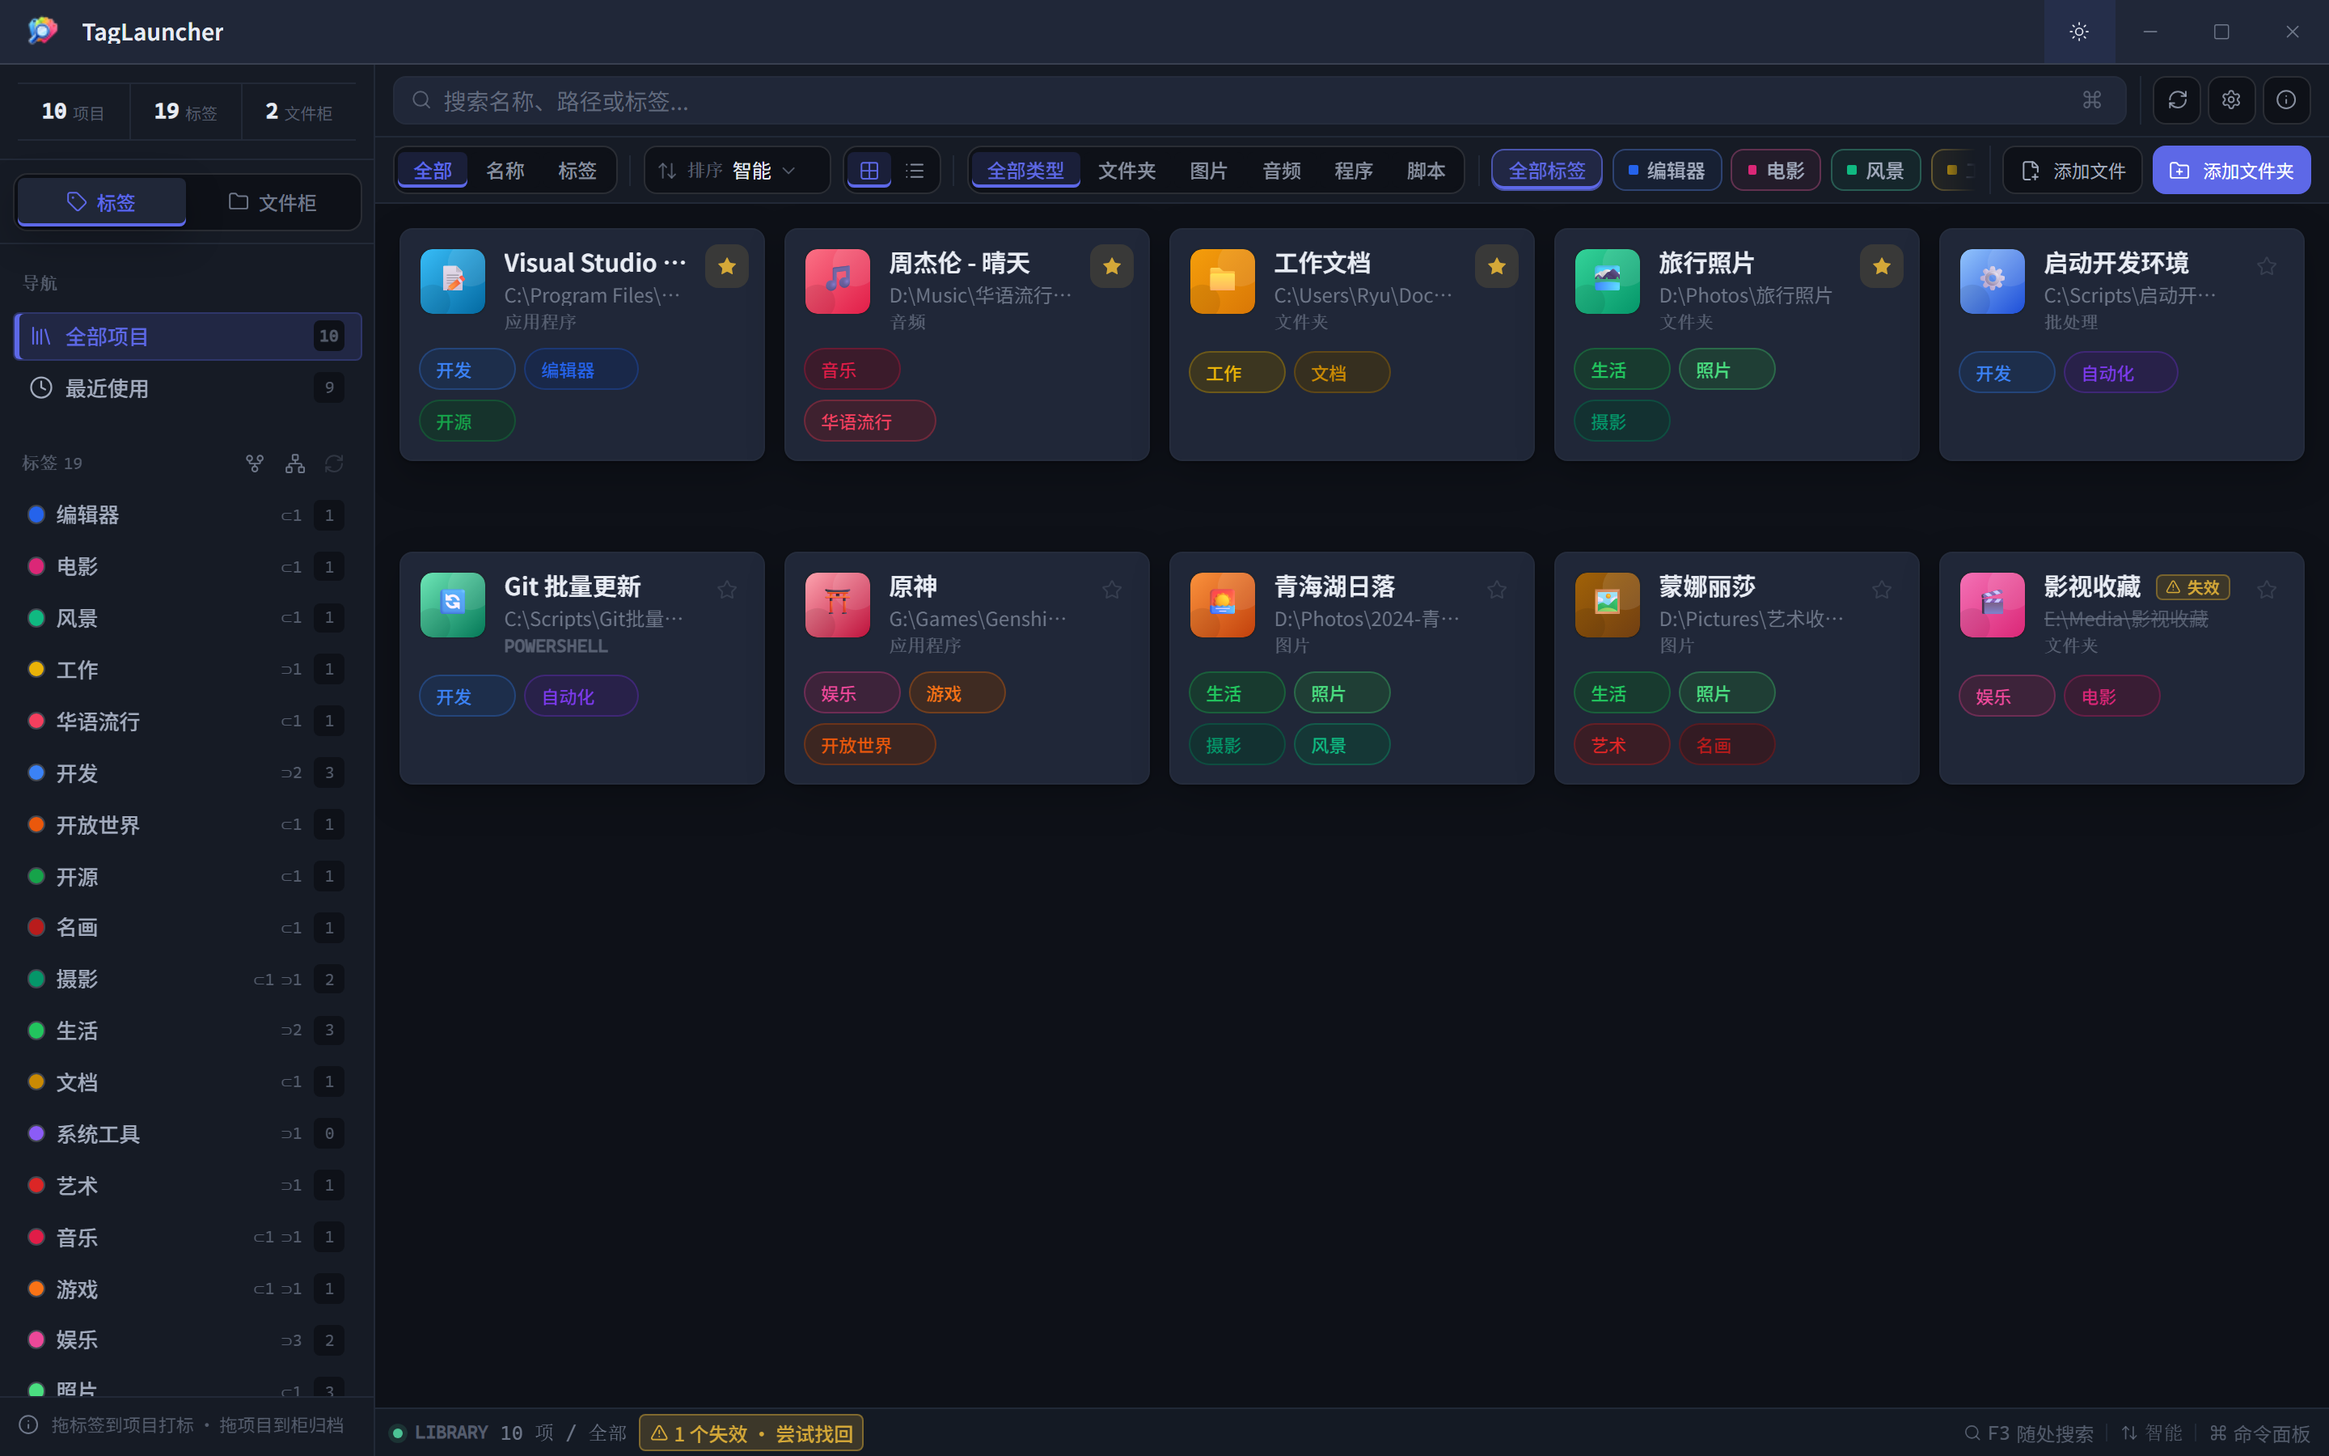
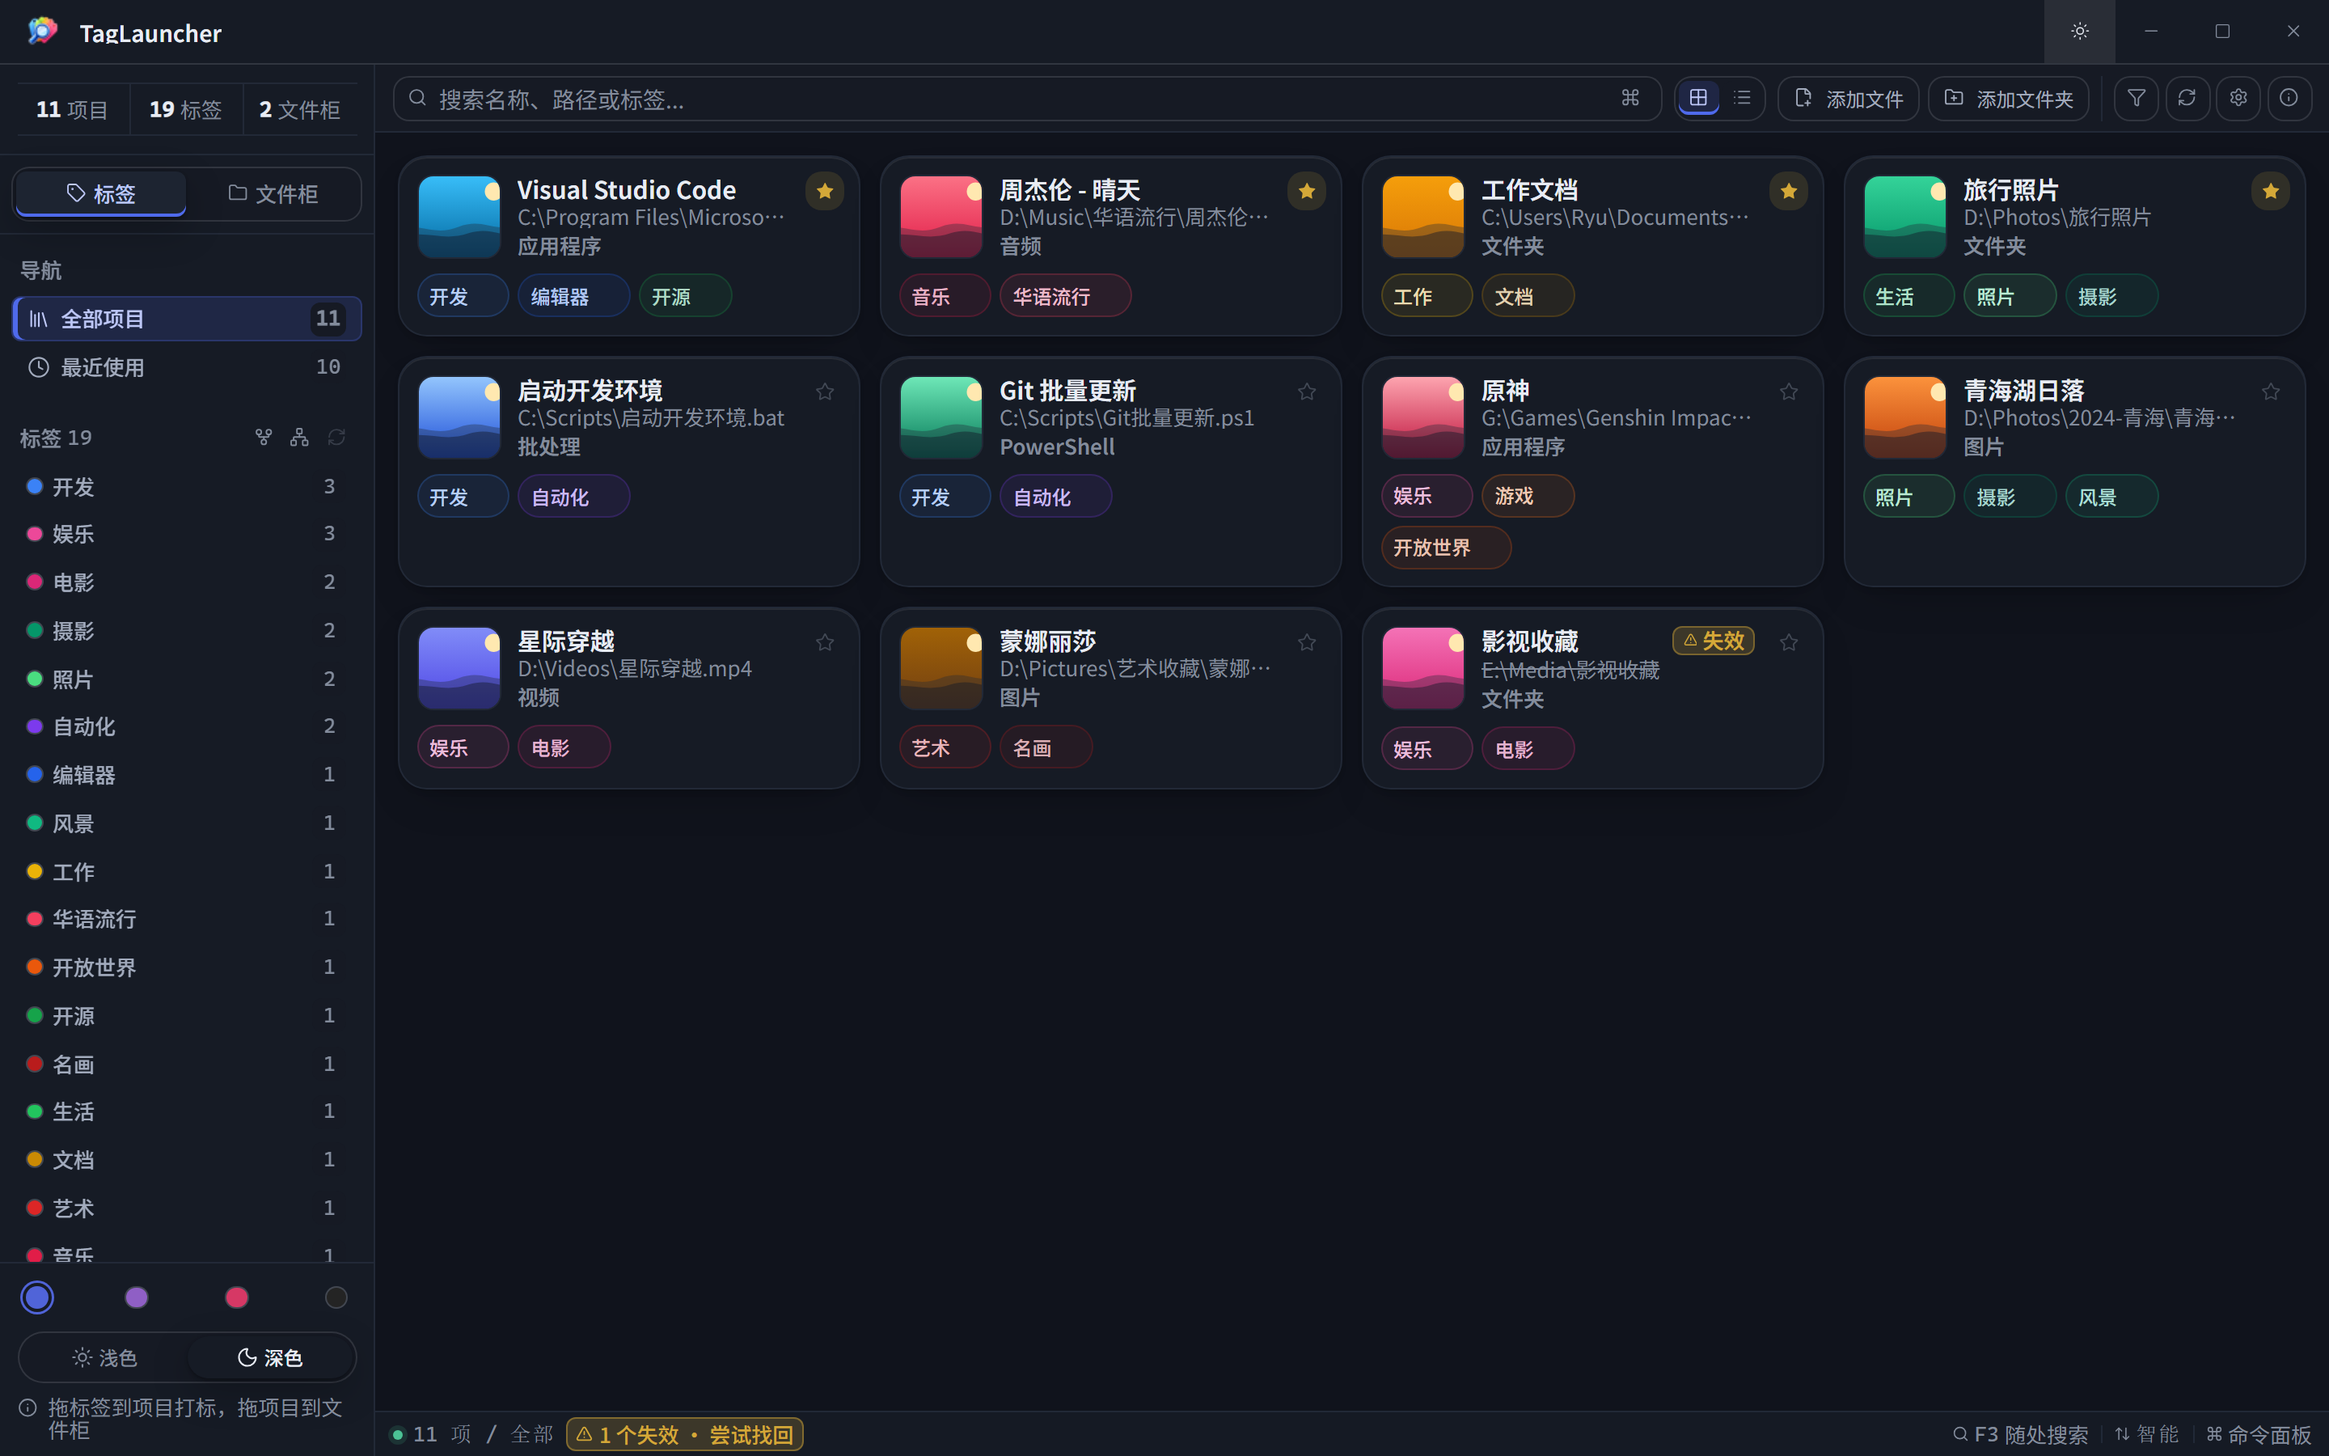
chore(release): v1.8.0

diff --git a/src/demo/data.ts b/src/demo/data.ts
@@ -1,8 +1,8 @@
 // ============================================================================
 // demo/data.ts — 演示数据集（仅 demo 模式使用，不进正式构建功能路径）
 // ============================================================================
-// 10 个模拟对象，覆盖全部形态：
-//   - 6 种对象类型：folder ×3 / image ×2 / audio / exe ×2 / bat / ps1；
+// 11 个模拟对象，覆盖全部形态：
+//   - 7 种对象类型：folder ×3 / image ×2 / audio / video / exe ×2 / bat / ps1；
 //   - 状态形态：收藏、失效（移动硬盘未连接）、多标签、从未启动（无 last_used_at）；
 //   - 标签构成 DAG（多父继承），含零对象的结构标签（系统工具），用于演示
 //     标签图谱与「选中父标签并入后代对象」。
@@ -53,7 +53,7 @@ export const DEMO_TAG_RELATIONS: TagRelation[] = [
   { parentId: 7, childId: 30 }, // 游戏 ⊃ 开放世界
 ];
 
-// ---- 对象（10 个，6 类型全覆盖） ----
+// ---- 对象（11 个，7 类型全覆盖） ----
 
 export interface DemoItemSeed extends Item {
   /** 标签 id 列表（对应 DEMO_TAGS） */
@@ -79,6 +79,9 @@ export const DEMO_ITEMS: DemoItemSeed[] = [
   // ---- audio ----
   { id: 6, name: "周杰伦 - 晴天", path: "D:\\Music\\华语流行\\周杰伦 - 晴天.mp3", type: "audio", icon_path: thumb(6), created_at: "2025-01-20T13:00:00Z", last_used_at: "2026-08-25T22:18:00Z", is_favorite: true, tagIds: [8, 26] },
 
+  // ---- video ----
+  { id: 11, name: "星际穿越", path: "D:\\Videos\\星际穿越.mp4", type: "video", icon_path: thumb(11), created_at: "2025-06-08T20:30:00Z", last_used_at: "2026-08-22T21:10:00Z", is_favorite: false, tagIds: [2, 9] },
+
   // ---- exe ----
   { id: 7, name: "Visual Studio Code", path: "C:\\Program Files\\Microsoft VS Code\\Code.exe", type: "exe", icon_path: thumb(7), created_at: "2025-01-05T08:00:00Z", last_used_at: "2026-08-26T01:30:00Z", is_favorite: true, tagIds: [1, 10, 11] },
   { id: 8, name: "原神", path: "G:\\Games\\Genshin Impact\\YuanShen.exe", type: "exe", icon_path: thumb(8), created_at: "2025-02-28T14:20:00Z", last_used_at: "2026-08-24T23:37:00Z", is_favorite: false, tagIds: [2, 7, 30] },
@@ -100,7 +103,7 @@ export const DEMO_CABINETS: Cabinet[] = [
 /** 文件柜成员：cabinetId → itemIds */
 export const DEMO_CABINET_ITEMS: Record<number, number[]> = {
   1: [7, 1, 10],
-  2: [8, 6],
+  2: [8, 6, 11],
 };
 
 // ---- 文件夹预览目录列表（虚构条目） ----

diff --git a/src/demo/assets.ts b/src/demo/assets.ts
@@ -24,6 +24,8 @@ const PATH_VISUALS: Record<string, DemoVisual> = {
   "D:/Photos/2024-青海/青海湖日落.jpg": { emoji: "🌅", from: "#fb923c", to: "#c2410c" },
   // audio（专辑封面与卡片缩略图同视觉）
   "D:/Music/华语流行/周杰伦 - 晴天.mp3": { emoji: "🎵", from: "#fb7185", to: "#e11d48" },
+  // video（首帧占位，与卡片缩略图同视觉）
+  "D:/Videos/星际穿越.mp4": { emoji: "🎥", from: "#818cf8", to: "#4f46e5" },
 };
 
 /** 缩略图缓存路径 item-<id>.png → 视觉（与 data.ts 中的对象一一对应） */
@@ -36,6 +38,7 @@ const THUMB_VISUALS: Record<number, DemoVisual> = {
   8: { emoji: "⛩", from: "#fda4af", to: "#be123c" },
   9: { emoji: "⚙", from: "#93c5fd", to: "#1d4ed8" },
   10: { emoji: "🔄", from: "#6ee7b7", to: "#047857" },
+  11: { emoji: "🎥", from: "#818cf8", to: "#4f46e5" },
 };
 
 const FALLBACK_PALETTE: Array<[string, string]> = [
@@ -76,7 +79,10 @@ function lookupVisual(path: string): DemoVisual {
 
 function buildSvg(visual: DemoVisual, path: string): string {
   const id = `g${hashPath(visual.from + visual.to).toString(36)}`;
-  if (/\.(jpe?g|png|webp|gif|bmp)$/i.test(path)) {
+  if (/\.(jpe?g|png|webp|gif|bmp|mp4|m4v|mkv|avi|mov|wmv|flv|webm)$/i.test(path)) {
+    const playMark = /\.(mp4|m4v|mkv|avi|mov|wmv|flv|webm)$/i.test(path)
+      ? `<circle cx="480" cy="320" r="64" fill="#111827" opacity="0.55"/><polygon points="468,288 468,352 524,320" fill="#ffffff"/>`
+      : "";
     return `<svg xmlns="http://www.w3.org/2000/svg" width="960" height="640" viewBox="0 0 960 640">`
       + `<defs><linearGradient id="${id}" x1="0" y1="0" x2="0" y2="1">`
       + `<stop offset="0" stop-color="${visual.from}"/><stop offset="1" stop-color="${visual.to}"/>`
@@ -85,6 +91,7 @@ function buildSvg(visual: DemoVisual, path: string): string {
       + `<circle cx="760" cy="120" r="72" fill="#ffe8b0"/>`
       + `<path d="M0 420 C180 360 280 480 480 400 C680 320 780 460 960 380 L960 640 L0 640 Z" fill="#1f2937" opacity="0.35"/>`
       + `<path d="M0 480 C220 420 360 520 560 450 C740 390 860 500 960 460 L960 640 L0 640 Z" fill="#111827" opacity="0.45"/>`
+      + playMark
       + `</svg>`;
   }
   return `<svg xmlns="http://www.w3.org/2000/svg" width="512" height="512" viewBox="0 0 512 512">`

diff --git a/版本对比.md b/版本对比.md
@@ -1,33 +1,33 @@
-# TagLauncher 版本对比:1.0.0 → 1.7.13-beta
+# TagLauncher 版本对比:1.0.0 → 1.8.0
 
 > 只对比首个正式版与当前版本,直观说明迭代变化。各功能详情见[开发手册](./PROJECT_MANUAL.md)。
 
 ## 一句话总结
 
-1.0.0 是一个「标签 + 文件柜」的本地启动器;1.7.13-beta 已进化为**可装 Mod、可换主题、带 AI 打标、云同步与在线更新的商业级文件工作台**。1.0.0 的核心概念(标签、文件柜、收藏、启动)全部保留并增强,老用户无需重新学习。
+1.0.0 是一个「标签 + 文件柜」的本地启动器;1.8.0 已进化为**可装 Mod、可换主题、带 AI 打标、云同步与在线更新的商业级文件工作台**。1.0.0 的核心概念(标签、文件柜、收藏、启动)全部保留并增强,老用户无需重新学习。
 
 ## 体量对照
 
-| 维度 | 1.0.0 | 1.7.13-beta |
+| 维度 | 1.0.0 | 1.8.0 |
 |---|---|---|
 | 源码文件数(src + src-tauri/src) | 30 | ≈176(约 5.9 倍) |
-| 后端命令数 | 23 | 93(约 4 倍) |
+| 后端命令数 | 23 | 95(约 4 倍) |
 | 自动化测试 | 0 | 300+(前端逻辑 + vitest + Rust 单元/集成) |
 | 文档 | 1 个 README | 手册体系(使用/开发/教程/维护/测试计划) |
 | CI / 发版流水线 | 无 | push/PR 自动测试;tag 触发 x64 + ARM64 双架构发版 |
 
 ## 能力对照
 
-| 方面 | 1.0.0 | 1.7.13-beta |
+| 方面 | 1.0.0 | 1.8.0 |
 |---|---|---|
 | **找文件** | 按路径记录,文件移动/改名即丢失 | NTFS 文件 ID 作身份,同盘改名/移动自动追踪;跨盘移动按内容指纹自动找回;支持 NAS/网络盘 |
 | **标签** | 平铺标签,交集筛选 | 图状标签(DAG,多父继承),选中父标签自动并入后代;关系编辑器 + 可视化标签图谱 |
-| **扩展性** | 功能固定 | Mod 体系(CSS / CSS+JS / Theme,17 种权限管控、网络请求原语、列表插槽)+ 主题体系(20 套 RyuujiDesign 锁定色板内置主题、A/B 双造型风格切换、tokens/变体/自定义 CSS),附官方示例 |
+| **扩展性** | 功能固定 | Mod 体系(CSS / CSS+JS / Theme,17 种权限管控、网络请求原语、列表插槽)+ 主题体系(4 大配色家族霜靛/藤色/樱花/素墨 × 亮暗、RyuujiDesign 锁定色板、tokens/变体/自定义 CSS),附官方示例 |
 | **AI** | 无 | 接入 Anthropic 协议(兼容第三方地址),一键/自动为对象智能打标;密钥只存本机、导出自动剔除 |
 | **数据** | 固定在程序旁,无备份手段 | 自定义数据目录;一键备份/导出/导入;WebDAV 云备份与恢复(自动保留最近 10 份,云端副本脱敏) |
 | **更新** | 无 | 启动自动检查 GitHub 新版本(24h 节流),按架构直达安装包下载 |
 | **搜索** | 名称/路径/标签/拼音/同义词,150ms 防抖 | 保留全部能力 + 英文轻度容错、英文缩写、表达式语法、索引缓存提速、命中关键词高亮、「搜索待生效」指示、层级标签并入结果 |
-| **交互** | 网格/列表 + 基础搜索 + 收藏置顶 | 大列表虚拟化、鼠标框选、命令面板(Ctrl+K)、空格快速预览、五种排序、类型筛选、批量操作、状态栏、骨架屏、主题化窗口栏、完整键盘体系 |
+| **交互** | 网格/列表 + 基础搜索 + 收藏置顶 | 大列表虚拟化、鼠标框选、命令面板(Ctrl+K)、空格快速预览(图片/音频/视频)、五种排序、类型筛选、批量操作、状态栏、骨架屏、主题化窗口栏、完整键盘体系 |
 | **工程质量** | 无测试、无 CI | 全量自动化测试 + CI 护栏 + 契约测试(命令双向一致、版本三处一致) |
 
 ## 结论

diff --git a/PROJECT_MANUAL.md b/PROJECT_MANUAL.md
@@ -1,6 +1,6 @@
 # TagLauncher 项目手册
 
-> 适用版本：v1.7.13-beta · 面向开发者 · 最终用户请见 [USER_GUIDE.md](./USER_GUIDE.md)
+> 适用版本：v1.8.0 · 面向开发者 · 最终用户请见 [USER_GUIDE.md](./USER_GUIDE.md)
 
 ## 一、项目简介
 
@@ -745,8 +745,8 @@ Mod JS 入口内调用 `createScope(__MOD_ID__)` 获取专属作用域（`__MOD_
 
 - `vite --mode demo` 时 `vite.config.ts` 用 `resolve.alias` 把 5 个 Tauri 模块（`api/core`、`api/window`、`api/webview`、`plugin-dialog`、`plugin-shell`）替换为 `src/demo/tauri/` 下的浏览器内替身，前端代码零改动。
 - `src/demo/backend.ts` 是内存演示后端，覆盖 `lib/db.ts` 全部命令：数据读写、标签 DAG（含成环检测）、文件柜、设置、AI 打标建议、云同步、更新检查、Mod 管理等，并带模拟 IPC 延迟让加载态可见。页面刷新后数据重置。
-- `src/demo/data.ts` 是演示数据集：6 种对象类型（folder/image/audio/exe/bat/ps1）各 4 个，模拟知名软件/游戏/音乐/图片（如 VS Code、原神、周杰伦专辑），全部挂匹配标签；标签构成 DAG（如 娱乐⊃音乐⊃华语流行）；含 3 个文件柜与 1 个失效对象（演示找回流程）。
-- `src/demo/assets.ts` 把虚构路径确定性地生成为内联 SVG data URL（缩略图/专辑封面）；音频路径喂给 `<audio>` 的是生成的静音 WAV，保证播放器正常加载。仓库不含任何第三方版权素材。
+- `src/demo/data.ts` 是演示数据集：11 个对象覆盖 7 种类型（folder/image/audio/video/exe/bat/ps1），模拟知名软件/游戏/音乐/影片/图片（如 VS Code、原神、周杰伦专辑、星际穿越），全部挂匹配标签；标签构成 DAG（如 娱乐⊃音乐⊃华语流行）；含 2 个文件柜与 1 个失效对象（演示找回流程）。
+- `src/demo/assets.ts` 把虚构路径确定性地生成为内联 SVG data URL（缩略图/专辑封面/视频首帧占位）；音频路径喂给 `<audio>` 的是生成的静音 WAV，保证播放器正常加载。仓库不含任何第三方版权素材。
 
 ### 16.2 用法
 

diff --git a/USER_GUIDE.md b/USER_GUIDE.md
@@ -1,6 +1,6 @@
 # TagLauncher 使用手册
 
-> 适用版本：v1.7.13-beta · 面向最终用户 · 开发者请见 [PROJECT_MANUAL.md](./PROJECT_MANUAL.md) 与 [TUTORIAL.md](./TUTORIAL.md)
+> 适用版本：v1.8.0 · 面向最终用户 · 开发者请见 [PROJECT_MANUAL.md](./PROJECT_MANUAL.md) 与 [TUTORIAL.md](./TUTORIAL.md)
 
 TagLauncher 用「标签 + 文件柜 + 收藏 + 搜索」管理你的本地文件、文件夹、程序、脚本、图片和音频——不移动、不复制、不改动你的任何文件，只做轻量的索引与启动。
 

diff --git a/测试计划.md b/测试计划.md
@@ -1,6 +1,6 @@
 # TagLauncher 全功能测试计划
 
-> 更新日期：2026-09-14。应用版本：1.7.13-beta；数据库 schema：12。
+> 更新日期：2026-09-16。应用版本：1.8.0；数据库 schema：13。
 > 复验基线：`d396f396998e6b8072b798e1456e583d97f7150b`。范围：该提交相对父提交的 120 个文件及其集成路径。
 > 状态：计划已更新，当前基线的完整复验待执行。已有记录见第 17 节；本次工作只更新计划。
 

diff --git a/THEME_GUIDE.md b/THEME_GUIDE.md
@@ -1,6 +1,6 @@
 # TagLauncher 主题开发指南
 
-> 适用版本：v1.7.13-beta
+> 适用版本：v1.8.0
 > 相关文档：[PROJECT_MANUAL.md](./PROJECT_MANUAL.md)（架构总览）· [MOD_GUIDE.md](./MOD_GUIDE.md)（Mod 开发）
 > 可参照的完整示例：仓库根目录 `ExampleTheme/SkyCloudTheme/theme.json`（112 个变量键与内置主题完全一致）
 

diff --git a/MOD_GUIDE.md b/MOD_GUIDE.md
@@ -1,6 +1,6 @@
 # TagLauncher Mod 开发指南
 
-> 适用版本：v1.7.13-beta · Mod API v3.2.0
+> 适用版本：v1.8.0 · Mod API v3.2.0
 > 相关文档：[PROJECT_MANUAL.md](./PROJECT_MANUAL.md)（架构总览）· [THEME_GUIDE.md](./THEME_GUIDE.md)（主题开发）
 > 可运行示例：仓库根目录 `ExampleMod/preview/`
 

diff --git a/MAINTENANCE.md b/MAINTENANCE.md
@@ -1,6 +1,6 @@
 # TagLauncher 维护手册
 
-> 适用版本：v1.7.13-beta · 面向仓库维护者 · 覆盖 CI、发版、更新分发、数据运维与故障排查
+> 适用版本：v1.8.0 · 面向仓库维护者 · 覆盖 CI、发版、更新分发、数据运维与故障排查
 
 ---
 

diff --git a/TUTORIAL.md b/TUTORIAL.md
@@ -1,6 +1,6 @@
 # TagLauncher 源码开发指南
 
-> 适用版本：v1.7.13-beta
+> 适用版本：v1.8.0
 
 本文档面向希望二次开发 TagLauncher 的开发者。
 内容基于当前代码实现（Tauri 2 + React + TypeScript + Rust）。
